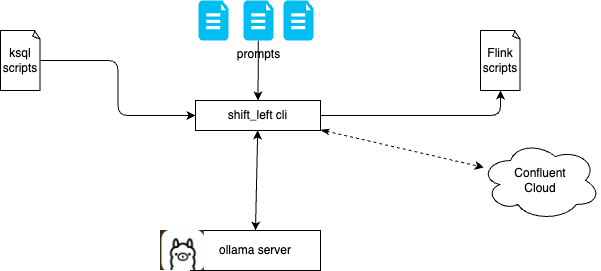
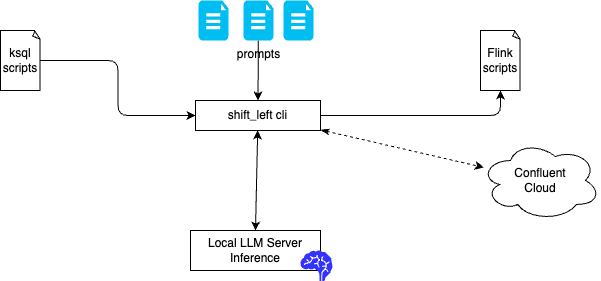
update to prompt and ai lab

diff --git a/src/shift_left/shift_left/ai/translator_to_flink_sql.py b/src/shift_left/shift_left/ai/translator_to_flink_sql.py
@@ -4,6 +4,7 @@ Copyright 2024-2025 Confluent, Inc.
 import os
 from pydantic import BaseModel
 from openai import OpenAI
+from openai.types.chat import ChatCompletionMessageParam
 import json
 from importlib import import_module
 from enum import Enum
@@ -189,30 +190,36 @@ class TranslatorToFlinkSqlAgent():
                 - flink_dml_output: Flink SQL DML statements (INSERT, SELECT, etc.)
         """
         translator_prompt_template = "ksql_input: {sql_input}"
-        messages=[
+        messages: list[ChatCompletionMessageParam] = [
             {"role": "system", "content": self.translator_system_prompt},
             {"role": "user", "content": translator_prompt_template.format(sql_input=sql)}
         ]
-        # print(f"Messages: {messages}")
+        logger.info(f"Messages: {messages}")
         try:
             # Use structured output to separate DDL and DML components
             response= self.llm_client.chat.completions.parse(
                 model=self.model_name,
                 response_format=SourceSql2FlinkSql,
-                messages=messages  # pyright: ignore[reportArgumentType]
+                messages=messages
             )
 
             obj_response = response.choices[0].message
             logger.info(f"\nTranslation Response: {obj_response.parsed}")
-            print(f"Response: {obj_response.parsed}")
+            print(f"nTranslation Response: {obj_response.parsed}")
             if obj_response.parsed:
-                return obj_response.parsed.flink_ddl_output, obj_response.parsed.flink_dml_output
+                ddl_output = obj_response.parsed.flink_ddl_output
+                dml_output = obj_response.parsed.flink_dml_output
+                if ddl_output:
+                    ddl_output = ddl_output.replace('\\n', ' ')
+                if dml_output:
+                    dml_output = dml_output.replace('\\n', ' ')
+                return ddl_output, dml_output
             else:
                 # Return empty strings if parsing fails
-                return "", ""
+                return sql, ""
         except Exception as e:
             logger.error(f"Error in translator agent: {e}")
-            return "", ""
+            return sql, ""
 
     def _detect_multitable_with_agent(self, sql: str) -> SqlTableDetection:
         """
@@ -232,17 +239,18 @@ class TranslatorToFlinkSqlAgent():
                 - Description of the detection result
         """
         table_detection_prompt_template = "src_sql_input: {src_sql_input}"
-        messages=[
+        messages: list[ChatCompletionMessageParam] = [
             {"role": "system", "content": self.table_detection_system_prompt},
             {"role": "user", "content": table_detection_prompt_template.format(src_sql_input=sql)}
         ]
         # Use structured output to ensure consistent response format
+        logger.info(f"Table detection messages: {messages}")
         try:
             response = self.llm_client.chat.completions.parse(
                 model=self.model_name,
                 response_format=SqlTableDetection,
                 reasoning_effort="none",  # pyright: ignore[reportArgumentType]
-                messages=messages  # pyright: ignore[reportArgumentType]
+                messages=messages
             )
 
             obj_response = response.choices[0].message
@@ -286,11 +294,11 @@ class TranslatorToFlinkSqlAgent():
         """
         logger.info(f"Starting mandatory validation agent with {self.model_name}")
         syntax_checker_prompt_template = "ddl_sql_input: {ddl_sql_input}\ndml_sql_input: {dml_sql_input}"
-        messages=[
+        messages: list[ChatCompletionMessageParam] = [
             {"role": "system", "content": self.mandatory_validation_system_prompt},
             {"role": "user", "content": syntax_checker_prompt_template.format(ddl_sql_input=ddl_sql, dml_sql_input=dml_sql)}
         ]
-
+        logger.info(f"Mandatory validation messages: {messages}")
         try:
             # Use structured output to maintain DDL/DML separation
             response= self.llm_client.chat.completions.parse(
@@ -381,7 +389,7 @@ class TranslatorToFlinkSqlAgent():
         try:
             refinement_prompt_template = "flink_sql_input: {sql_input}\nhistory of the conversation: {history}\nreported error: {error_message}"
 
-            messages = [
+            messages: list[ChatCompletionMessageParam] = [
                 {"role": "system", "content": self.refinement_system_prompt},
                 {"role": "user", "content": refinement_prompt_template.format(sql_input=sql, history=history, error_message=error_message)}
             ]

diff --git a/src/shift_left/shift_left/ai/ksql_code_agent.py b/src/shift_left/shift_left/ai/ksql_code_agent.py
@@ -102,7 +102,7 @@ class KsqlToFlinkSqlAgent(TranslatorToFlinkSqlAgent):
                 # Validate and refine the translation
                 ddl_sql, dml_sql = self._run_mandatory_validation_agent(ddl_sql, dml_sql)
                 logger.info(f"Done with mandatory validation agent for statement {i+1}")
-                self._snapshot_ddl_dml(table_name + "_" + str(i), ddl_sql, dml_sql)
+                self._snapshot_ddl_dml(table_name + "_v_" + str(i), ddl_sql, dml_sql)
                 # Collect non-empty results
                 if ddl_sql.strip():
                     final_ddl.append(ddl_sql)

diff --git a/docs/tutorial/migration_ai_lab.md b/docs/tutorial/migration_ai_lab.md
@@ -22,24 +22,56 @@ Be sure to have done the [Setup Lab](./setup_lab.md) to get shift_left cli opera
 For the AI based migration the following needs to be done:
 
 1. A computer with at least 20GB of Free RAM, with GPU - (All development was done on MAC M3 Pro 36GB )
-1. [Install Ollama](https://ollama.com/download/mac)
-	```sh
-	# Verify the ollama cli:
-	ollama list 
-	ollama --help
-	```
+1. Install one of the local LLM server. (On Mac, server needs to support MLX, so LMStudio is a good candidate for that)
 
-1. Download the `qwen3-coder:30b` model:
-	```sh
-    ollama pull qwen3-coder:30b
-	```
+	=== "LMStudio"
+		1. [Install LMS cli or LMStudio](https://ollama.com/download/mac)
+			```sh
+			curl -fsSL https://lmstudio.ai/install.sh | bash
 
-1. Add or update the following environments variables in your `set_env_var`
+			# Verify the lms cli:
+			lms ls
+			lms server start
+			```
+		1. Download the `qwen3-coder-30b-a3b-instruct` model:
+			```sh
+			lms get qwen3-coder-30b-a3b-instruct-mlx 
+			lms ls
+			```
+		1. Set env variables:
+			```sh
+			export SL_LLM_BASE_URL=http://localhost:1234/v1
+			export SL_LLM_MODEL=qwen3-coder-30b-a3b-instruct-mlx
+			export SL_LLM_API_KEY=not_needed_key
+			```
+
+	=== "Ollama"
+		1. [Install Ollama](https://ollama.com/download/mac)
+			```sh
+			# Verify the ollama cli:
+			ollama list 
+			ollama --help
+			```
+		1. Download the `qwen3-coder:30b` model:
+			```sh
+			ollama pull qwen3-coder:30b
+			```
+		1. Start Ollama server:
+			```sh
+			ollama serve
+			```
+		1. Set environment variables
+			```sh
+			export SL_LLM_BASE_URL=http://localhost:11434/v1
+			export SL_LLM_MODEL=qwen3-coder:30b
+			export SL_LLM_API_KEY=not_needed_key
+			```
+
+
+
+1. Add or update the following environments variables in your `set_env_var`. The following variables will be used to control `confluent` cli during statement deployment using makefile.
+
 	```sh
-	export SL_LLM_BASE_URL=http://localhost:11434/v1
-	export SL_LLM_MODEL=qwen3-coder:30b
-	export SL_LLM_API_KEY=not_needed_key
-	# and the following variables will be use to control `confluent` cli during statement deployment
 	export CCLOUD_ENV_ID=env-
 	export CCLOUD_ENV_NAME=
 	export CCLOUD_KAFKA_CLUSTER=<name of the kafka cluster>
@@ -49,18 +81,15 @@ For the AI based migration the following needs to be done:
 	export CCLOUD_COMPUTE_POOL_ID=<compute pool id>
 	```
 
-1. Start Ollama server:
-	```sh
-	ollama serve
-	```
+
 
 ### Use Cloud SaaS
 
-If you are using a sevice like OpenAI, Anthropic, HuggingFace.hub, OpenRouter.ai , AWS Bedrock, use their API key and change the environment variable to refect openAI end points and key. There is also , where you can define an API key: [https://openrouter.ai/](https://openrouter.ai/), to get access to larger models, like `qwen/qwen3-coder:free` which is free to use for few requests per day (pricing conditions may change).
+If you are using a sevice like OpenAI, Anthropic, HuggingFace.hub, OpenRouter.ai , AWS Bedrock, use their API key and change the environment variable to reflect openAI endpoints and key. There is also [openrouter](https://openrouter.ai/) to get access to a set of models, like `qwen/qwen3-coder:free` which is free to use for few requests per day (pricing conditions may change).
 
 ### Use your own remote service
 
-Some users have deployed an inference server to their own VPC. The [IaC/tf_aws_c2 folder](https://github.com/jbcodeforce/shift_left_utils/tree/main/IaC/tf_aws_ec2) includes the terraform manifests to deploy an EC2 with GPU and ollama as an inference engine. The security group for AWS EC2 firewall is set to use the user IP address so only this machine can interact with the EC2 machine.
+Some users have deployed an inference server to their own VPC. The [IaC/tf_aws_c2 folder](https://github.com/jbcodeforce/shift_left_utils/tree/main/IaC/tf_aws_ec2) includes the terraform manifests to deploy an EC2 with GPU and `ollama` as an inference engine server. The security group for AWS EC2 firewall is set to use the user IP address so only the user's machine can interact with the EC2 machine.
 
 To run the migration set the following environment variable:
 
@@ -122,7 +151,7 @@ While Spark SQL is primarily designed for batch processing, it can be migrated t
 
 ### ksqlDB to Flink SQL
 
-ksqlDB has SQL constructs to do stream processing, but this is not an ANSI SQL engine. It is highly integrated with Kafka and uses specific keywords to define such integration. LLM may have limited access to ksql code during the training, so results may not be optimal. 
+ksqlDB has SQL constructs to do stream processing, but this is not an ANSI SQL engine. It is highly integrated with Kafka and uses specific keywords to define such integration. LLM may have limited access to ksql code during the training, so results may not be optimal. We are thinking to add a RAG system to get similar mapping.
 
 The migration and prompts need to support more examples outside of the classical SELECT and CREATE TABLE statements.
 
@@ -190,7 +219,7 @@ my-flink-demo
 
 ### 2. KSQL to Flink SQL Lab
 
-The following steps will help you migrate some of the ksql Tutorial queries, as introduced by [Confluent ksql Queries](https://developer.confluent.io/confluent-tutorials/splitting/ksql/) to Confluent Cloud Flink SQL. Those queries are defined as sources in the [Flink project demonstration git repository](https://github.com/jbcodeforce/flink_project_demos/tree/main/ksql_tutorial/README.md) 
+The following steps will help you migrate some of the ksql Tutorial queries, as introduced by [Confluent ksql Queries](https://developer.confluent.io/confluent-tutorials/splitting/ksql/) to Confluent Cloud Flink SQL. Those queries are defined as sources in the [Flink project demonstration git repository](https://github.com/jbcodeforce/flink_project_demos/tree/main/ksql_tutorial/README.md) under the `ksql_tutorial/sources` folder.
 
 #### 2.1 Migration Executions
 